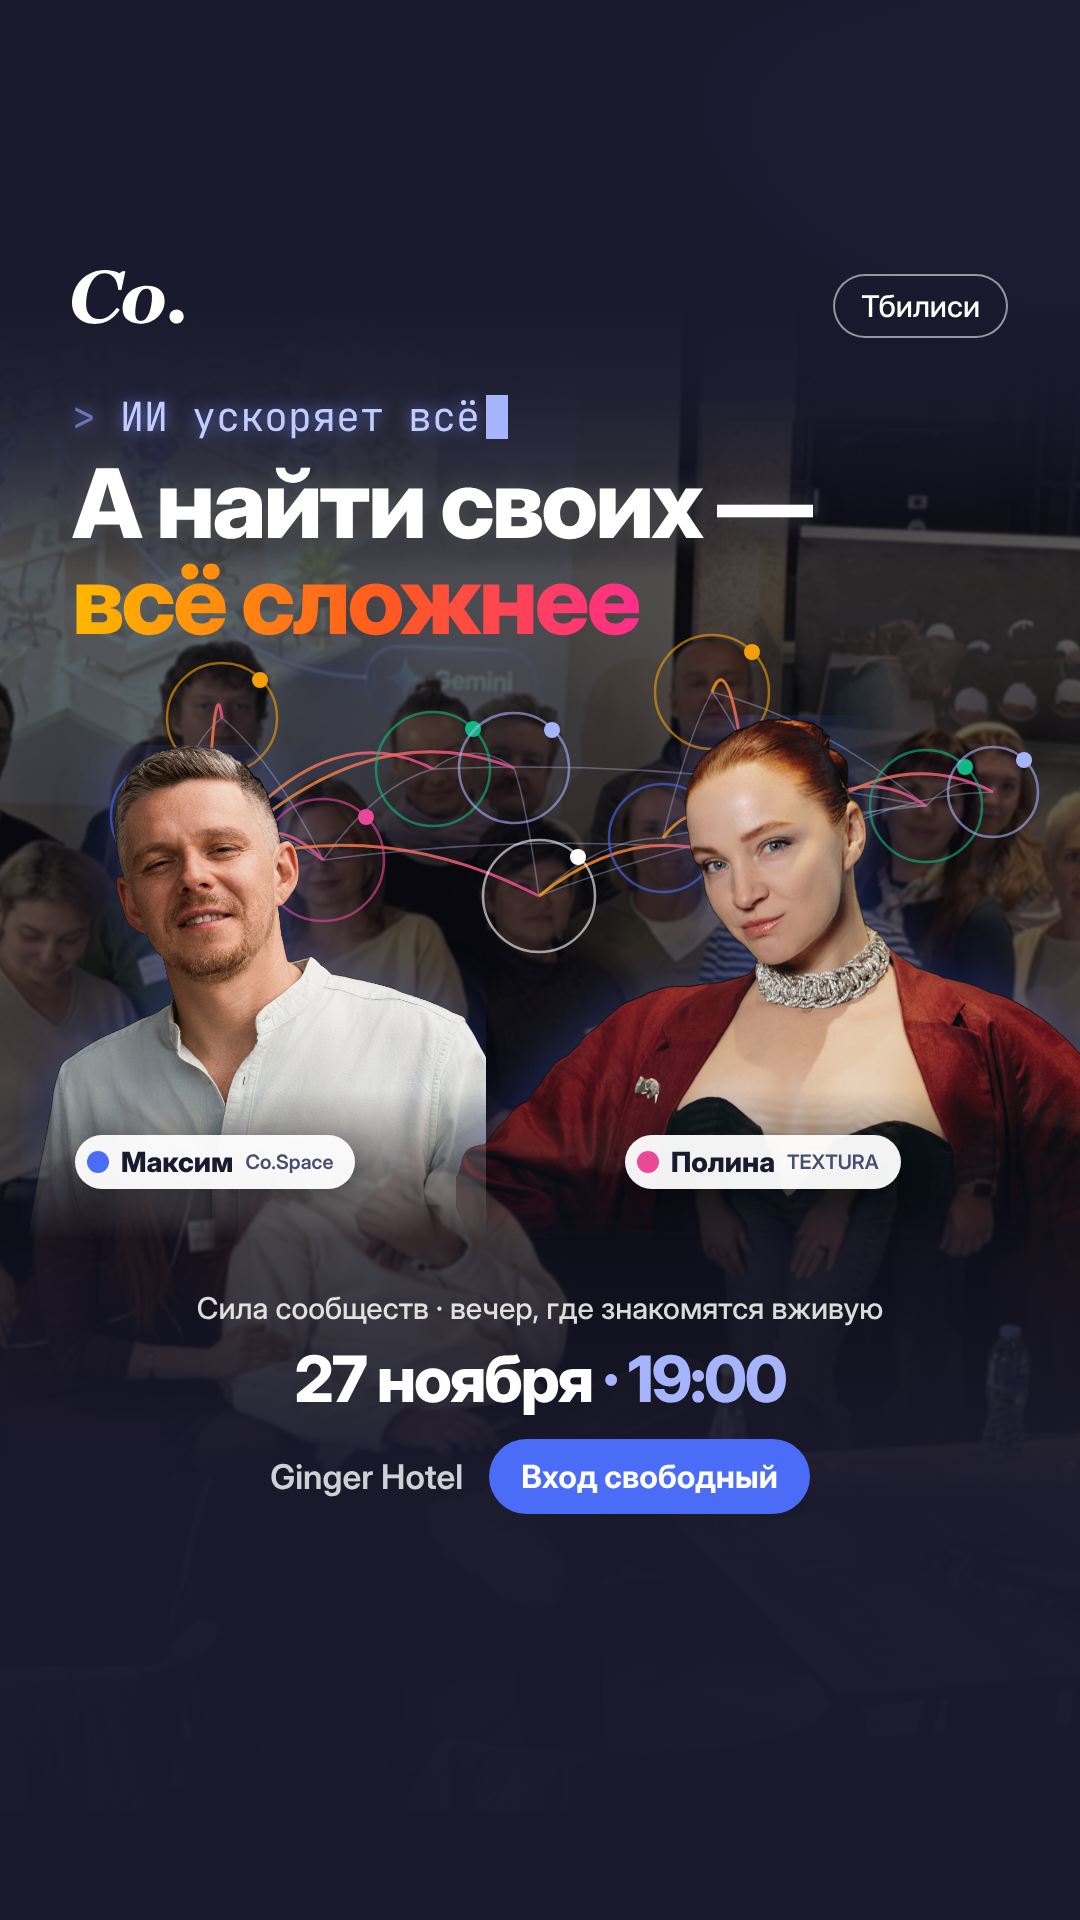
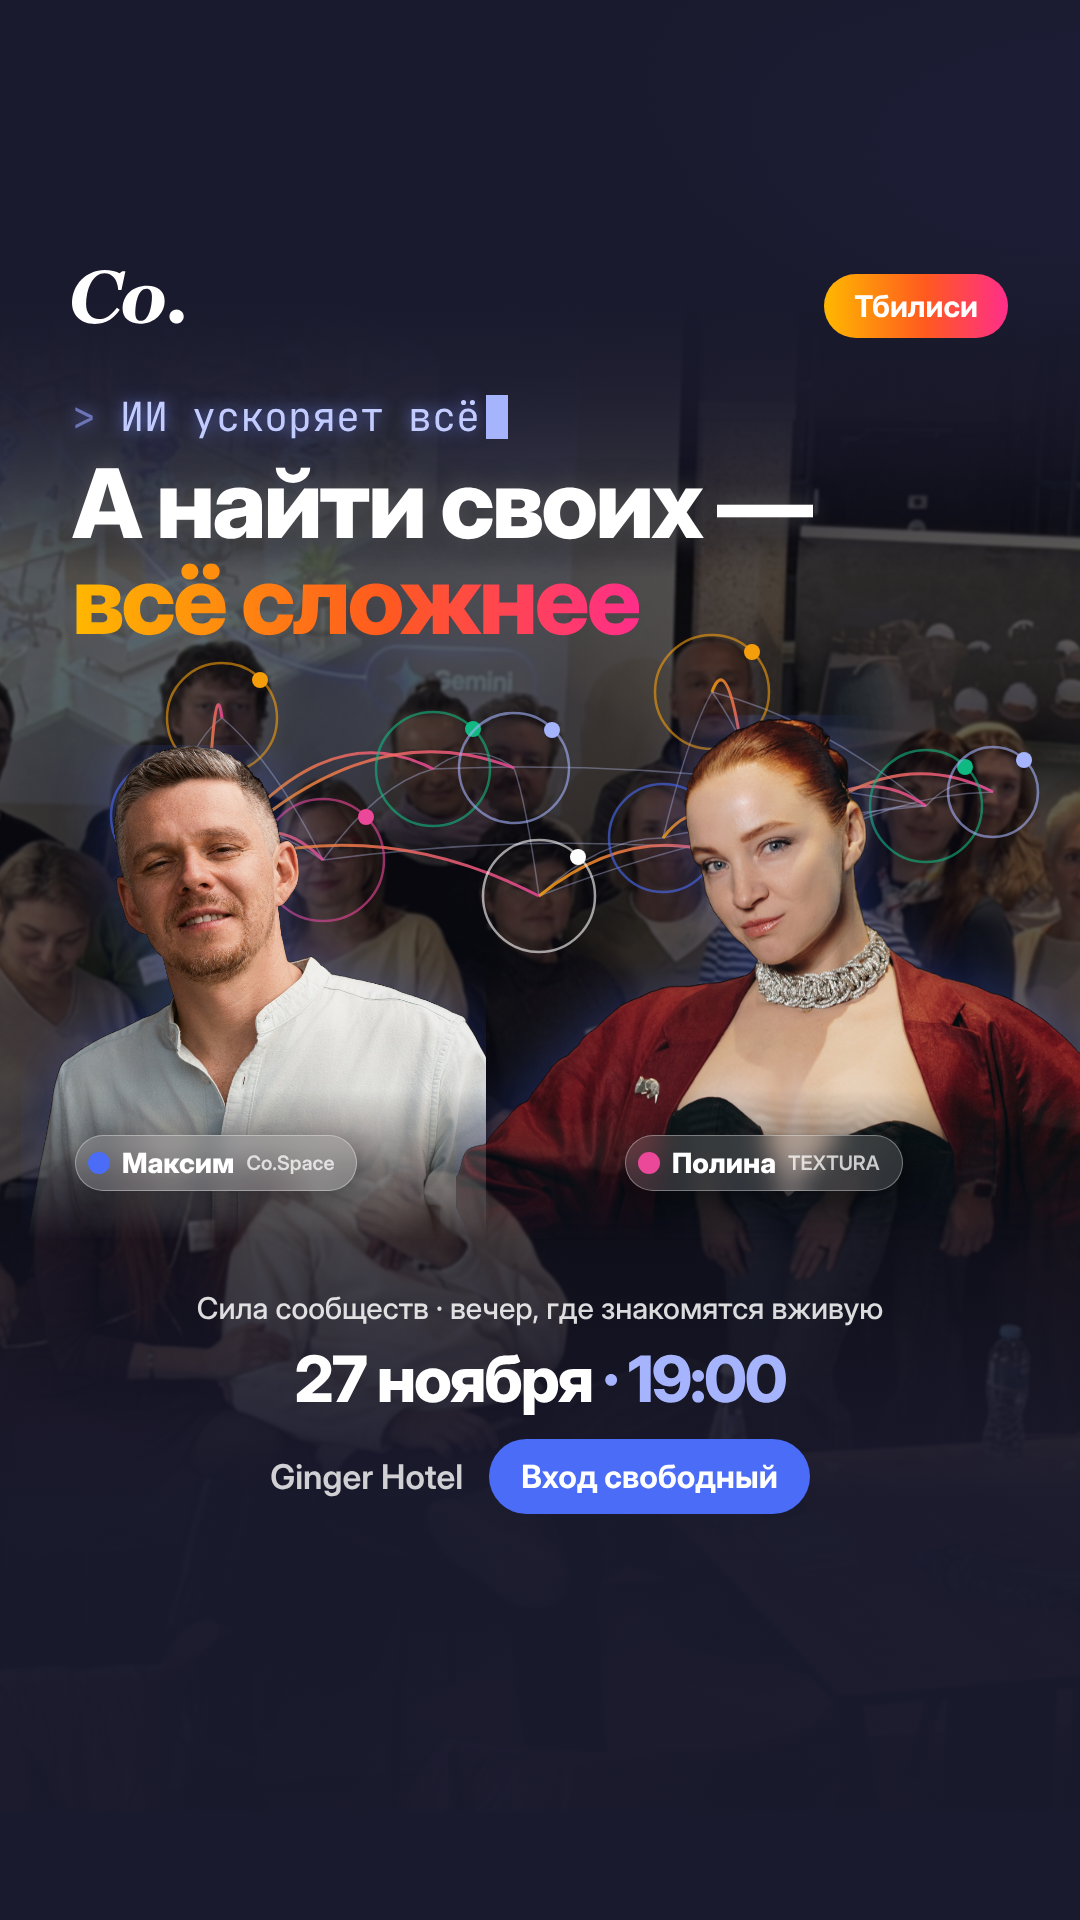
Полупрозрачные плашки имён, градиентная плашка Тбилиси

Changed region(s): [[0.7639, 0.125, 0.9472, 0.1875], [0.5806, 0.5938, 0.8556, 0.625], [0.0611, 0.5938, 0.3361, 0.625]]

diff --git a/creatives/src/poster/poster3-9x16.html b/creatives/src/poster/poster3-9x16.html
@@ -11,16 +11,16 @@ svg.net{position:absolute;left:0;top:0}
 .halo{position:absolute;border-radius:50%;border:3px solid;box-shadow:0 0 40px currentColor}
 .person img{height:100%;display:block;filter:drop-shadow(0 0 30px rgba(74,108,247,.35))}
 .logo{position:absolute;left:72px;top:270px}.logo svg{width:112px;height:auto;display:block}
-.pill{position:absolute;right:72px;top:274px;border:2px solid rgba(255,255,255,.55);border-radius:40px;padding:12px 26px;font-size:30px;font-weight:500;background:rgba(26,26,46,.4)}
+.pill{position:absolute;right:72px;top:274px;border-radius:40px;padding:14px 30px;font-size:30px;font-weight:700;color:#fff;background:linear-gradient(90deg,#FFB800 0%,#FF5A1F 55%,#FF2E8A 100%)}
 .mono{position:absolute;left:72px;top:390px;font-family:'JetBrains Mono',monospace;font-size:40px;color:#C3CCFF;text-shadow:0 0 16px rgba(120,140,255,.7)}
 .mono s{text-decoration:none;color:#6B75B8}
 .mono b{display:inline-block;width:22px;height:44px;background:#A5B4FC;vertical-align:-8px;margin-left:6px}
 h1{position:absolute;left:72px;right:60px;top:455px;font-size:96px;line-height:1;font-weight:800;letter-spacing:-3px;color:#fff;text-shadow:0 0 24px rgba(255,255,255,.25),0 4px 30px rgba(0,0,0,.7)}
 h1 em{font-style:normal;text-shadow:none;background:linear-gradient(90deg,#FFB800 0%,#FF5A1F 55%,#FF2E8A 100%);-webkit-background-clip:text;color:transparent}
-.name{position:absolute;display:flex;align-items:center;gap:12px;background:rgba(255,255,255,.95);color:#1A1A2E;border-radius:40px;
+.name{position:absolute;display:flex;align-items:center;gap:12px;background:rgba(255,255,255,.14);border:1.5px solid rgba(255,255,255,.35);-webkit-backdrop-filter:blur(12px);backdrop-filter:blur(12px);color:#fff;border-radius:40px;
  padding:10px 22px 10px 12px;font-size:28px;font-weight:800;box-shadow:0 10px 30px rgba(0,0,0,.4)}
 .name i{width:22px;height:22px;border-radius:50%;display:block}
-.name small{font-size:20px;font-weight:600;color:#4A4E6E}
+.name small{font-size:20px;font-weight:600;color:rgba(255,255,255,.75)}
 .info{position:absolute;left:0;right:0;top:1290px;text-align:center}
 .lead{font-size:30px;color:rgba(255,255,255,.85);font-weight:500;margin-bottom:14px}
 .date{font-size:64px;font-weight:800;letter-spacing:-2px}

diff --git a/creatives/src/poster/poster3-4x5.html b/creatives/src/poster/poster3-4x5.html
@@ -11,16 +11,16 @@ svg.net{position:absolute;left:0;top:0}
 .halo{position:absolute;border-radius:50%;border:3px solid;box-shadow:0 0 40px currentColor}
 .person img{height:100%;display:block;filter:drop-shadow(0 0 30px rgba(74,108,247,.35))}
 .logo{position:absolute;left:72px;top:60px}.logo svg{width:112px;height:auto;display:block}
-.pill{position:absolute;right:72px;top:64px;border:2px solid rgba(255,255,255,.55);border-radius:40px;padding:12px 26px;font-size:30px;font-weight:500;background:rgba(26,26,46,.4)}
+.pill{position:absolute;right:72px;top:64px;border-radius:40px;padding:14px 30px;font-size:30px;font-weight:700;color:#fff;background:linear-gradient(90deg,#FFB800 0%,#FF5A1F 55%,#FF2E8A 100%)}
 .mono{position:absolute;left:72px;top:170px;font-family:'JetBrains Mono',monospace;font-size:40px;color:#C3CCFF;text-shadow:0 0 16px rgba(120,140,255,.7)}
 .mono s{text-decoration:none;color:#6B75B8}
 .mono b{display:inline-block;width:22px;height:44px;background:#A5B4FC;vertical-align:-8px;margin-left:6px}
 h1{position:absolute;left:72px;right:60px;top:228px;font-size:94px;line-height:1;font-weight:800;letter-spacing:-3px;color:#fff;text-shadow:0 0 24px rgba(255,255,255,.25),0 4px 30px rgba(0,0,0,.7)}
 h1 em{font-style:normal;text-shadow:none;background:linear-gradient(90deg,#FFB800 0%,#FF5A1F 55%,#FF2E8A 100%);-webkit-background-clip:text;color:transparent}
-.name{position:absolute;display:flex;align-items:center;gap:12px;background:rgba(255,255,255,.95);color:#1A1A2E;border-radius:40px;
+.name{position:absolute;display:flex;align-items:center;gap:12px;background:rgba(255,255,255,.14);border:1.5px solid rgba(255,255,255,.35);-webkit-backdrop-filter:blur(12px);backdrop-filter:blur(12px);color:#fff;border-radius:40px;
  padding:10px 22px 10px 12px;font-size:28px;font-weight:800;box-shadow:0 10px 30px rgba(0,0,0,.4)}
 .name i{width:22px;height:22px;border-radius:50%;display:block}
-.name small{font-size:20px;font-weight:600;color:#4A4E6E}
+.name small{font-size:20px;font-weight:600;color:rgba(255,255,255,.75)}
 .info{position:absolute;left:0;right:0;top:1085px;text-align:center}
 .lead{font-size:30px;color:rgba(255,255,255,.85);font-weight:500;margin-bottom:14px}
 .date{font-size:64px;font-weight:800;letter-spacing:-2px}

diff --git a/creatives/src/poster/build_poster3.py b/creatives/src/poster/build_poster3.py
@@ -34,16 +34,16 @@ svg.net{position:absolute;left:0;top:0}
 .halo{position:absolute;border-radius:50%%;border:3px solid;box-shadow:0 0 40px currentColor}
 .person img{height:100%%;display:block;filter:drop-shadow(0 0 30px rgba(74,108,247,.35))}
 .logo{position:absolute;left:72px;top:%(top)dpx}.logo svg{width:112px;height:auto;display:block}
-.pill{position:absolute;right:72px;top:%(pt)dpx;border:2px solid rgba(255,255,255,.55);border-radius:40px;padding:12px 26px;font-size:30px;font-weight:500;background:rgba(26,26,46,.4)}
+.pill{position:absolute;right:72px;top:%(pt)dpx;border-radius:40px;padding:14px 30px;font-size:30px;font-weight:700;color:#fff;background:linear-gradient(90deg,#FFB800 0%%,#FF5A1F 55%%,#FF2E8A 100%%)}
 .mono{position:absolute;left:72px;top:%(mono)dpx;font-family:'JetBrains Mono',monospace;font-size:40px;color:#C3CCFF;text-shadow:0 0 16px rgba(120,140,255,.7)}
 .mono s{text-decoration:none;color:#6B75B8}
 .mono b{display:inline-block;width:22px;height:44px;background:#A5B4FC;vertical-align:-8px;margin-left:6px}
 h1{position:absolute;left:72px;right:60px;top:%(h1)dpx;font-size:%(h1s)dpx;line-height:1;font-weight:800;letter-spacing:-3px;color:#fff;text-shadow:0 0 24px rgba(255,255,255,.25),0 4px 30px rgba(0,0,0,.7)}
 h1 em{font-style:normal;text-shadow:none;background:linear-gradient(90deg,#FFB800 0%%,#FF5A1F 55%%,#FF2E8A 100%%);-webkit-background-clip:text;color:transparent}
-.name{position:absolute;display:flex;align-items:center;gap:12px;background:rgba(255,255,255,.95);color:#1A1A2E;border-radius:40px;
+.name{position:absolute;display:flex;align-items:center;gap:12px;background:rgba(255,255,255,.14);border:1.5px solid rgba(255,255,255,.35);-webkit-backdrop-filter:blur(12px);backdrop-filter:blur(12px);color:#fff;border-radius:40px;
  padding:10px 22px 10px 12px;font-size:28px;font-weight:800;box-shadow:0 10px 30px rgba(0,0,0,.4)}
 .name i{width:22px;height:22px;border-radius:50%%;display:block}
-.name small{font-size:20px;font-weight:600;color:#4A4E6E}
+.name small{font-size:20px;font-weight:600;color:rgba(255,255,255,.75)}
 .info{position:absolute;left:0;right:0;top:%(info)dpx;text-align:center}
 .lead{font-size:30px;color:rgba(255,255,255,.85);font-weight:500;margin-bottom:14px}
 .date{font-size:64px;font-weight:800;letter-spacing:-2px}
